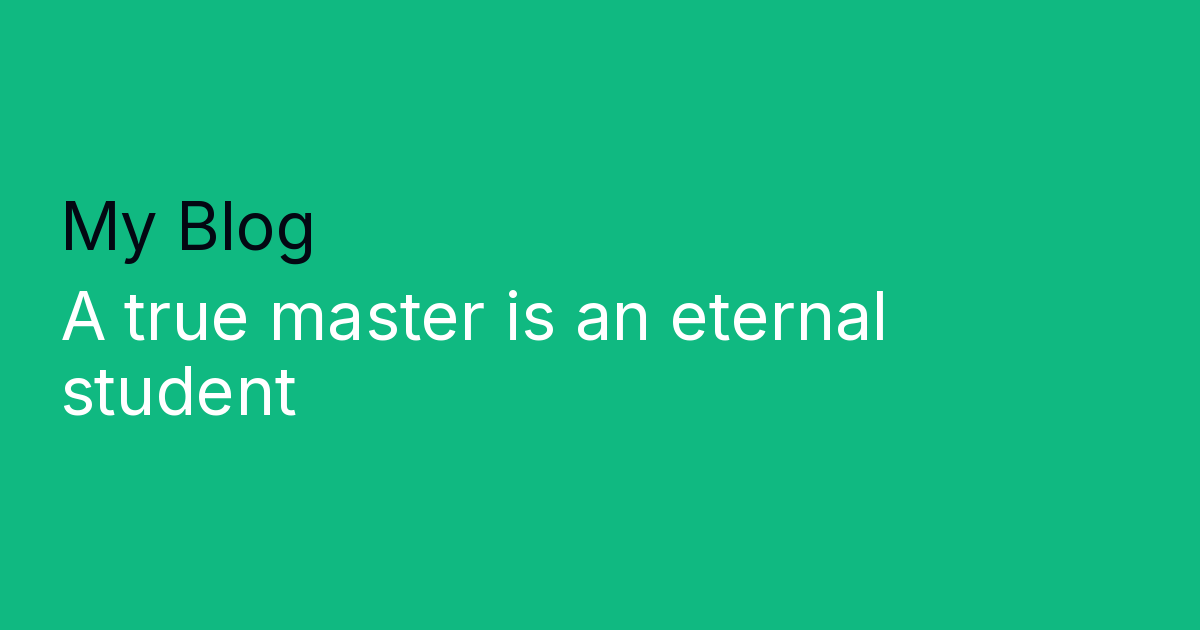
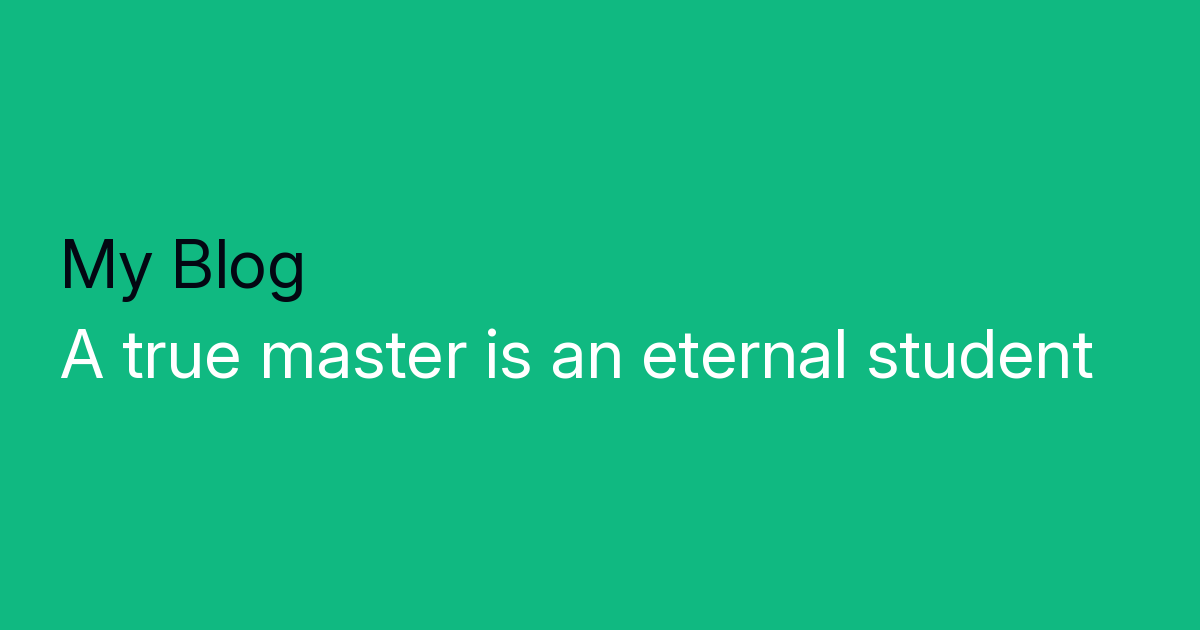
feat: expand font support with new families and weights, validate TTF files
- Added 14 static font weights, including new families: `JetBrainsMono` and medium variants for all fonts.
- Updated README.md to reflect new font options and technical details.
- Enhanced tests to validate paths and verify TTF file integrity.

Changed region(s): [[0.0308, 0.3016, 0.925, 0.6635]]

diff --git a/src/Text/Enums/Font.php b/src/Text/Enums/Font.php
@@ -6,12 +6,20 @@ namespace Yilanboy\Preview\Text\Enums;
 
 enum Font: string
 {
-    case NotoSansTC = 'noto-sans-tc.ttf';
-    case NotoSansSC = 'noto-sans-sc.ttf';
-    case NotoSansJP = 'noto-sans-jp.ttf';
-    case NotoSans = 'noto-sans.ttf';
     case Inter = 'inter.ttf';
+    case InterMedium = 'inter-medium.ttf';
     case Roboto = 'roboto.ttf';
+    case RobotoMedium = 'roboto-medium.ttf';
+    case JetBrainsMono = 'jetbrains-mono.ttf';
+    case JetBrainsMonoMedium = 'jetbrains-mono-medium.ttf';
+    case NotoSans = 'noto-sans.ttf';
+    case NotoSansMedium = 'noto-sans-medium.ttf';
+    case NotoSansSC = 'noto-sans-sc.ttf';
+    case NotoSansSCMedium = 'noto-sans-sc-medium.ttf';
+    case NotoSansTC = 'noto-sans-tc.ttf';
+    case NotoSansTCMedium = 'noto-sans-tc-medium.ttf';
+    case NotoSansJP = 'noto-sans-jp.ttf';
+    case NotoSansJPMedium = 'noto-sans-jp-medium.ttf';
 
     public function path(): string
     {

diff --git a/tests/Unit/FontTest.php b/tests/Unit/FontTest.php
@@ -1,7 +1,12 @@
 <?php
 
 use Yilanboy\Preview\Text\Enums\Font;
+use Yilanboy\Preview\Text\FontValidator;
 
 it('resolves every bundled font path to an existing file', function (Font $font) {
     expect(file_exists($font->path()))->toBeTrue();
+})->with(Font::cases());
+
+it('is a valid ttf file', function (Font $font) {
+    expect(FontValidator::isValidTtf($font->path()))->toBeTrue();
 })->with(Font::cases());

diff --git a/README.md b/README.md
@@ -218,14 +218,16 @@ Available customization enums live under `Yilanboy\Preview\Text\Enums`:
 
 | Enum         | Cases                                                                                              |
 |--------------|----------------------------------------------------------------------------------------------------|
-| `Font`       | `NotoSansTC` · `NotoSansSC` · `NotoSansJP` · `NotoSans` · `Inter` · `Roboto`                       |
+| `Font`       | `Inter` · `InterMedium` · `Roboto` · `RobotoMedium` · `JetBrainsMono` · `JetBrainsMonoMedium` · `NotoSans` · `NotoSansMedium` · `NotoSansSC` · `NotoSansSCMedium` · `NotoSansTC` · `NotoSansTCMedium` · `NotoSansJP` · `NotoSansJPMedium` |
 | `FontSize`   | `ExtraSmall` (24) · `Small` (32) · `Medium` (50) · `Large` (64) · `ExtraLarge` (80) · `Huge` (100) |
 | `Alignment`  | `Left` · `Center` · `Right`                                                                        |
 | `LineHeight` | `Snug` (1.15) · `Normal` (1.3) · `Relaxed` (1.5) · `Loose` (1.75)                                  |
 
-All six bundled fonts are variable-weight TTFs shipped under SIL OFL. `NotoSansTC` covers Latin + Traditional Chinese,
-`NotoSansSC` covers Latin + Simplified Chinese, and `NotoSansJP` covers Latin + Japanese; `NotoSans`, `Inter`, and
-`Roboto` are Latin-only.
+All 14 bundled fonts are static TrueType instances shipped under SIL OFL, with separate files per weight because GD
+cannot select a weight from a variable font: each family ships a Regular (400) and a Medium (500) variant (the `*Medium`
+cases). `Inter` is the 24pt optical cut. `NotoSansTC` covers Latin + Traditional Chinese, `NotoSansSC` covers Latin +
+Simplified Chinese, and `NotoSansJP` covers Latin + Japanese; `NotoSans`, `Inter`, `Roboto`, and `JetBrainsMono` (a
+monospaced family) are Latin-only.
 
 > Currently, the text supports English, Chinese (Traditional and Simplified), and Japanese.
 